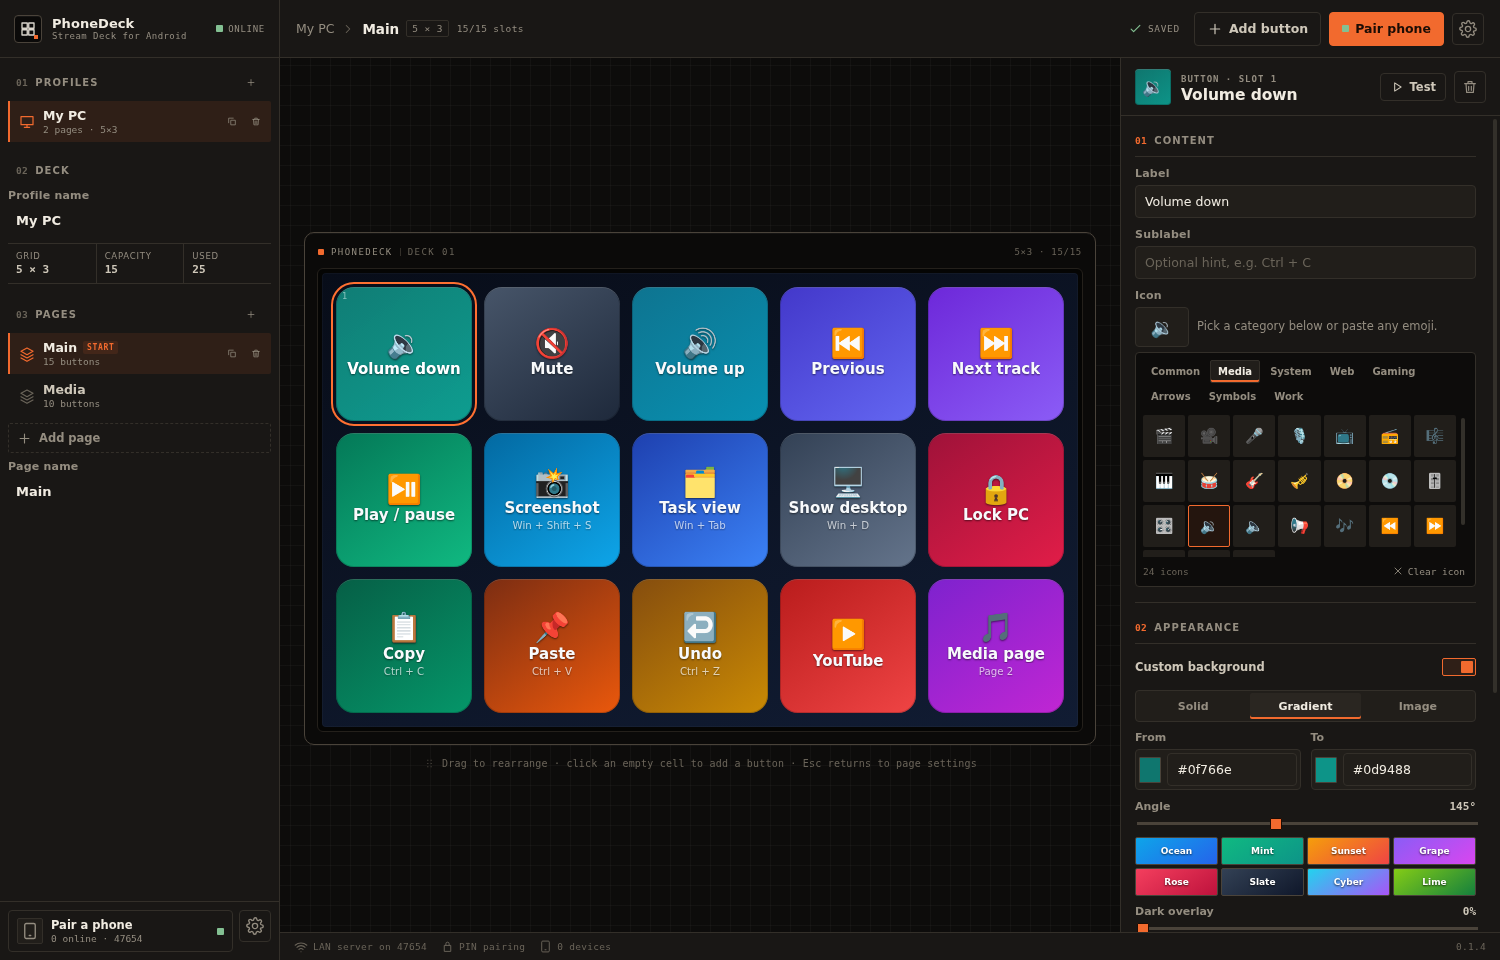
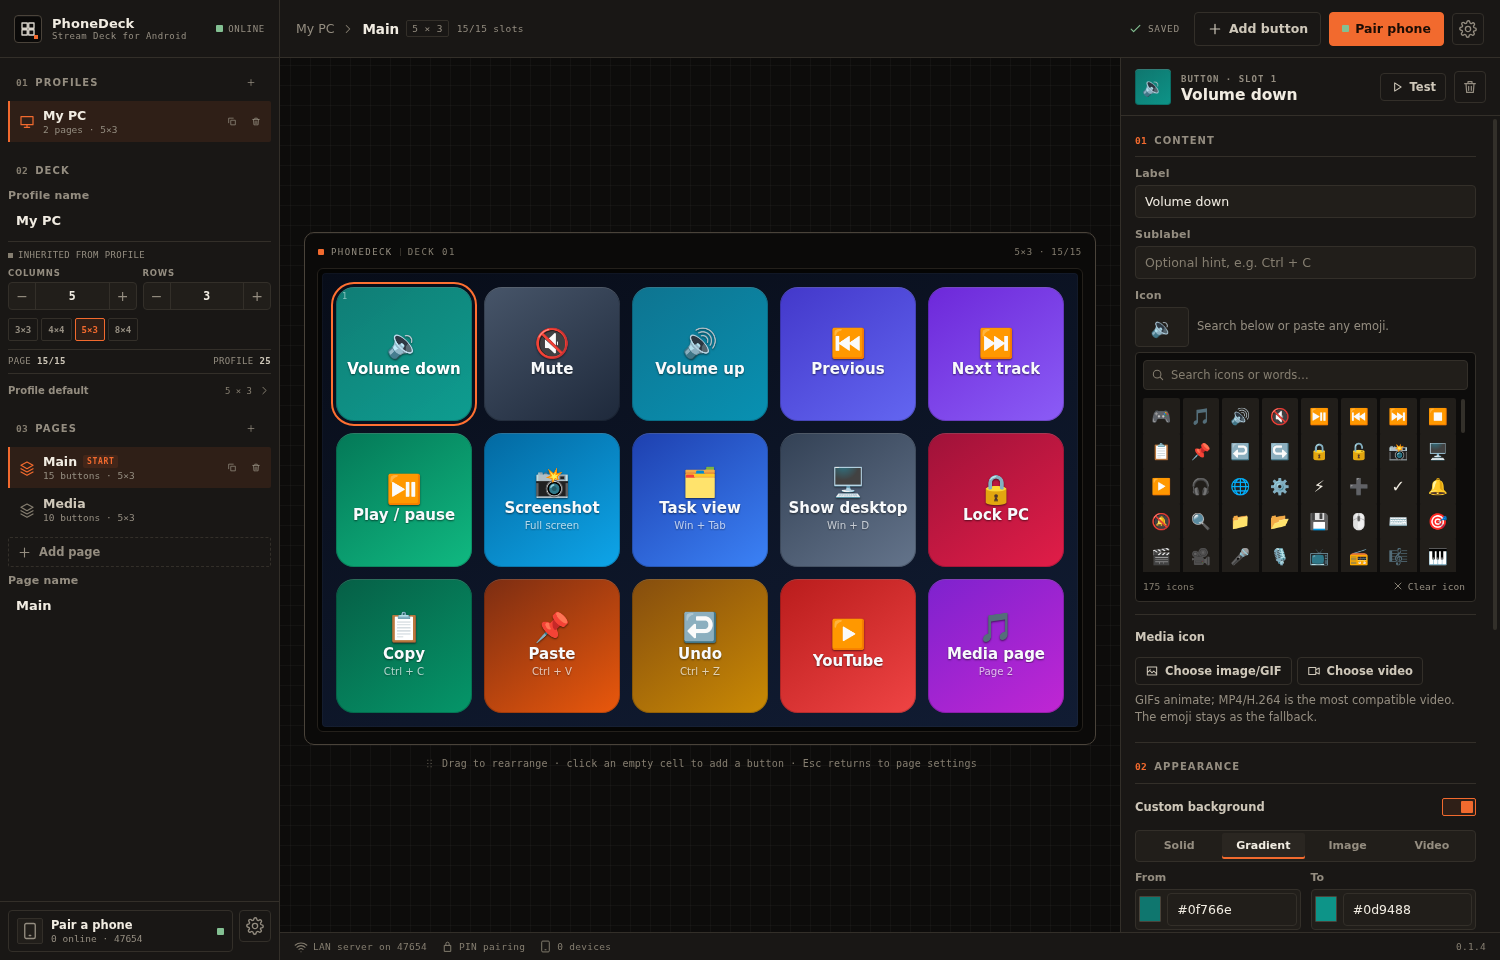
Refresh editor screenshots and feature docs

diff --git a/README.md b/README.md
@@ -36,17 +36,19 @@ No cloud, no account, no vendor lock-in: the phone talks directly to your PC ove
 ### Deck editor
 
 - **Profiles and pages** — multiple PCs/layouts, up to 20 pages per profile, instant page switching.
-- **Any grid you want** — 1×1 to 10×10 cells; buttons snap to slots; drag to rearrange or swap.
-- **Buttons** — label, sublabel, 130+ categorized emoji icons (or paste your own), solid/gradient/image background, dark overlay, custom text color, per-button radius.
-- **Backgrounds** — curated gradients, color presets, or import your own PNG/JPG/WEBP/GIF/BMP (up to 25 MB). Images are copied into the app's data folder and served to the phone.
+- **Per-page grids** — 1×1 to 10×10 cells per page, with optional profile defaults; buttons snap to slots; drag to rearrange or swap. Change one page without touching the rest.
+- **Buttons** — label, sublabel, 175 searchable emoji icons or your own, plus animated GIF/video media icons; solid/gradient/image/video backgrounds, dark overlay, custom text color, per-button radius.
+- **Backgrounds** — curated gradients, color presets, or import PNG/JPG/WEBP/GIF/BMP (up to 25 MB) and MP4/WEBM/M4V/MOV video (up to 100 MB). Animated GIFs and videos play in the editor and on the phone.
 - **Live preview** — the editor canvas is the same grid the phone renders, including slots and overflow warnings.
-- **Backups** — export/import a ZIP containing the config and every background image; legacy JSON configs still import.
+- **Backups** — export/import a ZIP containing the config and every image/video asset; legacy JSON configs still import.
 - **Instant sync** — every saved change is pushed to connected phones over WebSocket.
 
 ### Actions
 
-- **Shortcuts** — Ctrl+C, Win+Shift+S, Alt+Tab, media keys, F-keys, punctuation…
-- **Macros** — record chords, typing and pauses with pause/resume/undo; choose whether pauses and text grouping are captured; repeat a macro 1–50× with a gap; edit/reorder/duplicate steps; mouse click, double-click, hold, release, move and scroll; launch/URL/command steps; keys can press, hold or release.
+- **Shortcuts** — Ctrl+C, Cmd+Shift+3, Alt+Tab, media keys, F-keys, punctuation… labels and presets follow the host OS, so macOS shows Cmd/Option and Windows shows Win/Alt.
+- **Preset packs** — Chrome, OBS Studio, VS Code, System and Media shortcuts, filterable and platform-aware.
+- **Full-screen screenshots** — the Screenshot button uses the Snipping Tool on Windows and a silent full-screen PNG on macOS.
+- **Macros** — record chords, typing and pauses with pause/resume/undo; choose whether pauses and text grouping are captured; repeat a macro 1–50× with a gap; edit/reorder/duplicate steps; mouse click, double-click, hold, release, move and scroll; launch/URL/command steps; keys can press, hold or release. Macro actions stay collapsed as one summary until you expand them.
 - **Type text** — full Unicode text typed into the active window.
 - **Launch applications** — pick an `.exe`, `.lnk`, `.bat` or `.cmd`, with arguments.
 - **Open URLs** — http/https only.
